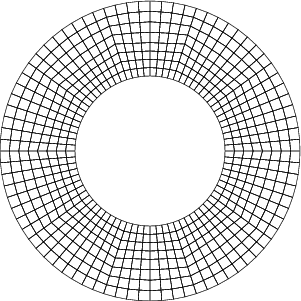
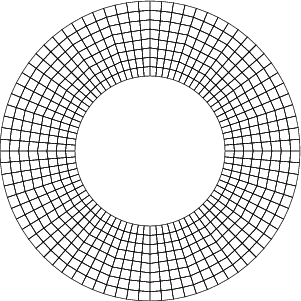
Significantly extend module on the manifold.
The new section describes the mesh smoothing algorithm in deal.II

Changed region(s): [[0.0299, 0.0299, 0.9867, 0.9867]]

diff --git a/doc/doxygen/headers/manifold.h b/doc/doxygen/headers/manifold.h
@@ -133,7 +133,8 @@
  *  GridGenerator::hyper_shell (triangulation,
  *                              center, inner_radius, outer_radius,
  *                              10);
- *  const HyperShellBoundary<2> boundary_description(center);
+ *  const SphericalManifold<2> boundary_description(center);
+ *  triangulation.set_all_manifold_ids_on_boundary(0);
  *  triangulation.set_boundary (0, boundary_description);
  *
  *  triangulation.refine_global (3);
@@ -144,12 +145,15 @@
  *
  * The mesh looks better in that it faithfully reproduces the circular inner
  * and outer boundaries of the domain. However, it is still possible to
- * identify the original 10 cells by the kinks in the tangential lines. They
- * result from the fact that every time a cell is refined, new vertices on
- * interior lines are just placed into the middle of the existing line (the
- * boundary lines are handled differently because we have attached boundary
- * objects). In other words, they end up in places that may be in the geometric
- * middle of a straight line, but not on a circle around the center.
+ * identify 20 kinks in the tangential lines. They result from the fact that
+ * every time a cell is refined, new vertices on interior lines are just
+ * placed into the middle of the existing line (the boundary lines are handled
+ * differently because we have attached a manifold object). In the first
+ * refinement with 10 cells, we got improved points because both outer
+ * boundaries have provided a curved description according to the description
+ * on blending different manifolds below. In other words, the new points after
+ * the first refinement end up in places that may be in the geometric middle
+ * of a straight line, but not on a circle around the center.
  *
  * This can be remedied by assigning a manifold description not only to
  * the lines along the boundary, but also to the radial lines and cells (which,
@@ -165,6 +169,7 @@
  *                              center, inner_radius, outer_radius,
  *                              10);
  *  const SphericalManifold<2> boundary_description(center);
+ *  triangulation.set_all_manifold_ids_on_boundary(0);
  *  triangulation.set_manifold (0, boundary_description);
  *
  *  Triangulation<2>::active_cell_iterator
@@ -202,26 +207,50 @@
  *               outer_radius = 1.0;
  *  GridGenerator::hyper_shell (triangulation,
  *                              center, inner_radius, outer_radius,
- *                              4);    // four circumferential cells
+ *                              3);    // three circumferential cells
  *  const HyperShellBoundary<2> boundary_description(center);
- *  triangulation.set_boundary (0, boundary_description);
+ *  triangulation.set_all_manifold_ids_on_boundary(0);
+ *  triangulation.set_manifold (0, boundary_description);
  *
  *  triangulation.refine_global (3);
  * @endcode
  *
- * @image html hypershell-boundary-only-4.png ""
- *
- * Here, we create only four circumferential cells in the beginning,
- * and refining them leads to the mesh shown. Clearly, here we have
- * cells with bad aspect ratios.
- *
- * If we drive this further and start with a coarse mesh of only
- * three cells (which may be inappropriate here, since we know that it
- * is not sufficient, but may also be impossible to avoid for complex
- * geometries generated in mesh generators), then we obtain the following
- * mesh:
- *
  * @image html hypershell-boundary-only-3.png ""
+ *
+ * Here, we create only three circumferential cells in the beginning, and
+ * refining them leads to the mesh shown. Clearly, here we have cells with bad
+ * aspect ratios, despite the first refinement that puts the new point into
+ * the middle.
+ *
+ * If we drive this further and start with a coarse mesh of a much thinner rim
+ * between the radii 0.8 and 1.0 and still start with only three cells (which
+ * may be inappropriate here, since we know that it is not sufficient, but may
+ * also be impossible to avoid for complex geometries generated in mesh
+ * generators), we observe the following:
+ *
+ * @code
+ *  Triangulation<2> triangulation;
+ *
+ *  const Point<2> center (1,0);
+ *  const double inner_radius = 0.8,
+ *               outer_radius = 1.0;
+ *  GridGenerator::hyper_shell (triangulation,
+ *                              center, inner_radius, outer_radius,
+ *                              3);    // three circumferential cells
+ *  const SphericalManifold<2> boundary_description(center);
+ *  triangulation.set_all_manifold_ids(0);
+ *  triangulation.set_manifold (0, boundary_description);
+ *
+ *  Triangulation<2>::active_cell_iterator
+ *    cell = triangulation.begin_active(),
+ *    endc = triangulation.end();
+ *  for (; cell!=endc; ++cell)
+ *    cell->set_all_manifold_ids (0);
+ *
+ *  triangulation.refine_global (3);
+ * @endcode
+ *
+ * @image html hypershell-boundary-thin-3.png ""
  *
  * This mesh neither has the correct geometry after refinement, nor do
  * all cells have positive area as is necessary for the finite element
@@ -233,12 +262,13 @@
  *  Triangulation<2> triangulation;
  *
  *  const Point<2> center (1,0);
- *  const double inner_radius = 0.5,
+ *  const double inner_radius = 0.8,
  *               outer_radius = 1.0;
  *  GridGenerator::hyper_shell (triangulation,
  *                              center, inner_radius, outer_radius,
  *                              3);    // three circumferential cells
  *  const SphericalManifold<2> boundary_description(center);
+ *  triangulation.set_all_manifold_ids(0);
  *  triangulation.set_manifold (0, boundary_description);
  *
  *  Triangulation<2>::active_cell_iterator
@@ -269,6 +299,93 @@
  *
  * @see @ref GlossManifoldIndicator "Glossary entry on manifold indicators"
  *
+ * <h3>Computing the weights for combining different manifold descriptions</h3>
+ *
+ * In a realistic application, it happens regularly that different manifold
+ * descriptions need to be combined. The simplest case is when a curved
+ * description is only available for the boundary but not for the interior of
+ * the computational domain. The manifold description for a ball also falls
+ * into this category, as it needs to combine a spherical manifold at the
+ * circular part with a straight-sided description in the center of the domain
+ * where the spherical manifold is not valid.
+ *
+ * In general, the process of blending in deal.II is achieved by the so-called
+ * transfinite interpolation. Its formula 2D is, for example, described on
+ * <a href="https://en.wikipedia.org/wiki/Transfinite_interpolation">
+ * Wikipedia</a>.  Given a point $(u,v)$ on the chart, the image of this point
+ * in real space is given by
+ * @f{align*}{
+ * \mathbf S(u,v) &= (1-v)\mathbf c_0(u)+v \mathbf c_1(u) + (1-u)\mathbf c_2(v) + u \mathbf c_3(v) \\
+ * &\quad - \left[(1-u)(1-v) \mathbf x_0 + u(1-v) \mathbf x_1 + (1-u)v \mathbf x_2 + uv \mathbf x_3 \right]
+ * @f}
+ * where $\bf x_0, \bf x_1, \bf x_2, \bf x_3$ denote the four bounding vertices
+ * bounding the image space and $\bf c_0, \bf c_1, \bf c_2, \bf c_3$ are the
+ * four curves describing the lines of the cell.
+ *
+ * If we want to find the center of the cell according to the manifold (that
+ * is also used when the grid is refined), we want to evaluate this formula in
+ * the point $(u,v) = (0.5, 0.5)$. In that case, $\mathbf c_2(0.5)$ is the
+ * position of the midpoint of the lower face (indexed by 2 in deal.II's
+ * ordering) that is derived from its own manifold, $\mathbf c_1(0.5)$ is the
+ * position of the midpoint of the upper face (indexed by 3 in deal.II),
+ * $\mathbf c_2(0.5)$ is the midpoint of the face on the left (indexed by 0),
+ * and $\mathbf c_3(0.5)$ is the midpoint of the right face. In this formula,
+ * the weights equate to $\frac{\displaystyle 1}{\displaystyle 2}$ for the
+ * four midpoints in the faces and to $-\frac{\displaystyle 1}{\displaystyle
+ * 4}$ for the four vertices. These weights look weird at first sight because
+ * the vertices enter with negative weight but the mechanism does what we
+ * want: In case of a cell with curved description on two opposite faces but
+ * straight lines on the other two faces, the negative weights of -1/4 in the
+ * vertices balance with the center of the two straight lines in radial
+ * direction that get weight 1/2. Thus, the average is taken over the two
+ * center points in curved direction, exactly placing the new point in the
+ * middle.
+ *
+ * In three spatial dimensions, the weights are +1/2 for the face midpoints,
+ * -1/4 for the line mid points, and +1/8 for the vertices, again balancing
+ * the different entities. In case all the surrounding of a cell is straight,
+ * the formula again reduces to weight 1/8 on the eight vertices.
+ *
+ * In the MappingQGeneric class, a generalization of this concept to the
+ * support points of the polynomial grid representation, the nodes of the
+ * Gauss-Lobatto quadrature, is implemented by evaluating the boundary curves
+ * in the respective points $(u_i,v_i)$ of the Gauss-Lobatto points. The
+ * weights have been verified to yield optimal convergence rates $\mathcal
+ * O(h^{k+1})$ also for very high polynomial degrees, say $k=10$.
+ *
+ * In literature, also other boundary descriptions are used. Indeed, before
+ * version 9.0 deal.II used something called Laplace smoothing where the
+ * weights that are applied to the nodes on the circumference to get the
+ * position of the interior nodes are determined by solving a Laplace equation
+ * on the unit element. However, this did lead to boundary layers close to the
+ * curved description, i.e., singularities in the higher derivatives of the
+ * mapping from unit to real cell.
+ *
+ * For example, the above case with only 3 circumferential cells leads to the
+ * following mesh with Laplace smoothing rather than the interpolation from
+ * the boundary (which may be inappropriate here, since we know that it is not
+ * sufficient, but may also be impossible to avoid for complex geometries
+ * generated in mesh generators):
+ *
+ * @image html hypershell-boundary-only-3-old.png ""
+ *
+ * To use a more practical example, consider the refinement of a ball with a
+ * SphericalManifold attached to the spherical surface. The Laplace smoothing
+ * gives the following rather poor mesh:
+ *
+ * @image html hyperball-mesh-smoothing-laplace.png ""
+ *
+ * If we, instead, use the weights derived from transfinite interpolation, the
+ * situation is considerably improved:
+ *
+ * @image html hyperball-mesh-smoothing-interpolate.png ""
+ *
+ * Of course, one could get even better meshes by applying the
+ * TransfiniteInterpolationManifold to the whole domain except the boundary
+ * where SphericalManifold is attached, as shown by the figures in that class,
+ * but in principle, the mesh smoothing implemented in deal.II is as good as
+ * it can get from a boundary description alone.
+ *
  * @ingroup grid
- * @author Luca Heltai, 2013
+ * @author Luca Heltai, 2013, Martin Kronbichler, 2017
  */
